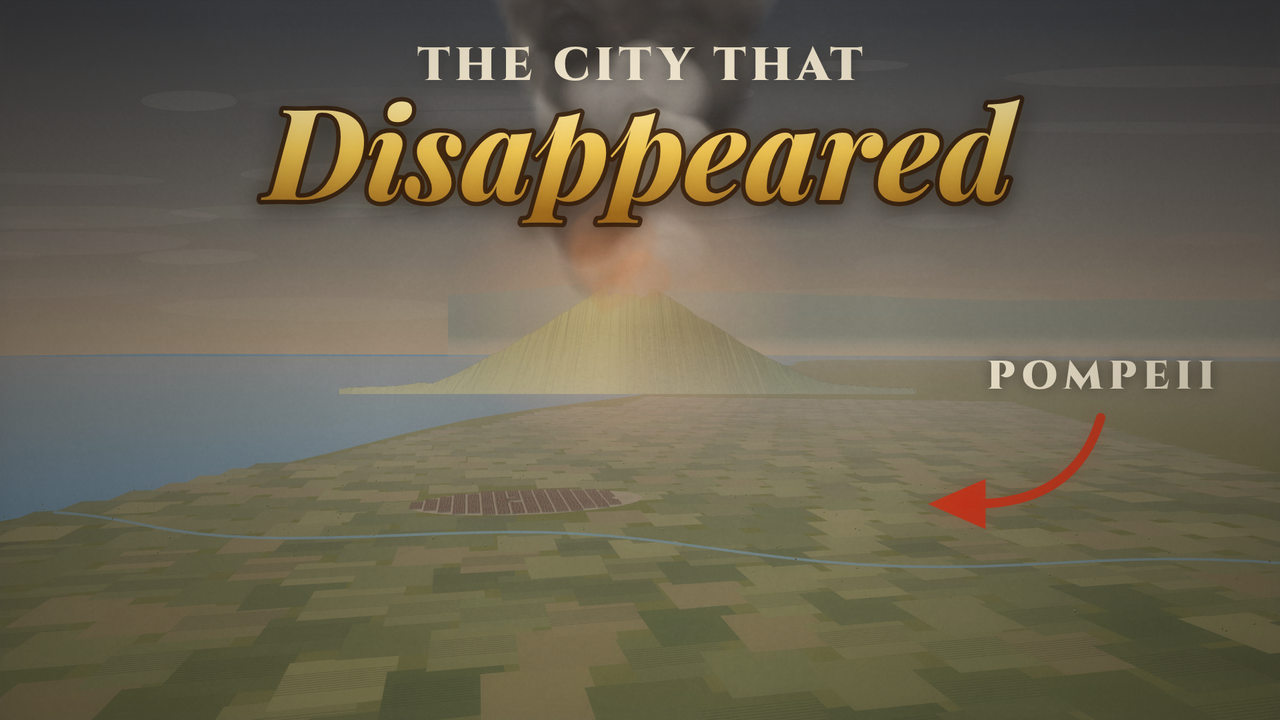
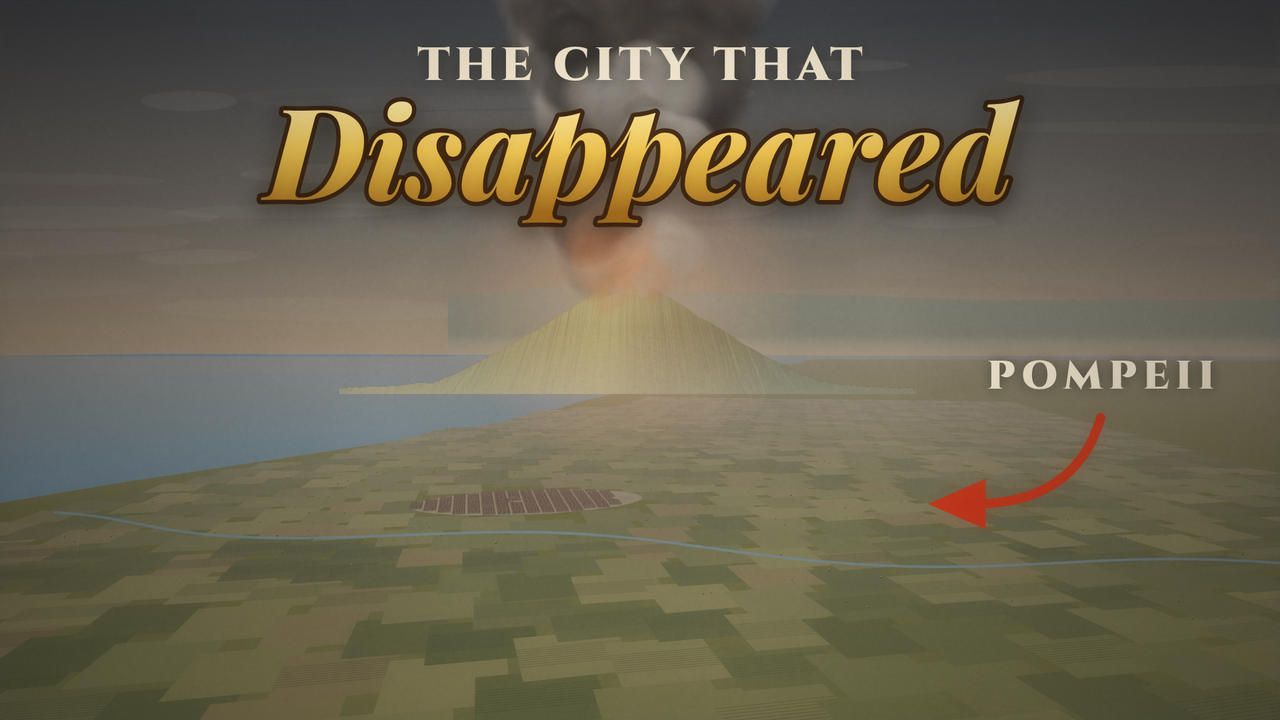
Fix aerial ground plane clipping in far shots; refresh thumbnails
The land and sea planes ended 3 km south of the town, leaving a black band at
the bottom of high, distant aerial shots (eruption, night and aftermath views).
They now extend 30 km; the ridge band also fades out instead of ending in a box.

Claude-Session: https://claude.ai/code/session_01KoUcWcj69kNmCuHbXMcbsW

diff --git a/pompeii/sets/aerial.js b/pompeii/sets/aerial.js
@@ -37,7 +37,7 @@ function build() {
   B.push({ x0: -104, x1: -76, z0: 46, z1: 78, h: 17, temple: true, k: 0.5 });
   B.push({ x0: -160, x1: -112, z0: -10, z1: 50, h: 12, k: 0.3 });
   FIELDS = []; const q = rng(23);
-  for (let gx = -16; gx <= 16; gx++) for (let gz = -9; gz <= 30; gz++) {
+  for (let gx = -16; gx <= 16; gx++) for (let gz = -40; gz <= 30; gz++) {
     const x = gx * 290 + (q() - 0.5) * 60, z = gz * 290 + (q() - 0.5) * 60;
     if ((x / 700) ** 2 + (z / 380) ** 2 < 1.05) continue;
     if (x < -2600 + z * 0.12 + 150) continue; // sea
@@ -60,7 +60,7 @@ export function drawAerial(ctx, W, H, t, st) {
   // sea (west/left) and land
   const fogD = 9000;
   const P = (pts, col, a = 1) => poly(ctx, cam, pts, col, lk, a, fogD);
-  poly(ctx, cam, [[-60000, 0, -3000], [60000, 0, -3000], [60000, 0, 60000], [-60000, 0, 60000]], mixc(hex('#5f86a0'), lk.sky[1], 0.35), lk, 1, 1e9);
+  poly(ctx, cam, [[-60000, 0, -30000], [60000, 0, -30000], [60000, 0, 60000], [-60000, 0, 60000]], mixc(hex('#5f86a0'), lk.sky[1], 0.35), lk, 1, 1e9);
   // distant Apennine hills (right) + Lattari (left far)
   const far = cam.proj([0, 0, 40000]);
   if (far) {
@@ -69,8 +69,8 @@ export function drawAerial(ctx, W, H, t, st) {
   }
   // land mass: coast running roughly N-S to the west of the town
   const land = mulc(mixc(hex(st.bury > 0.6 && st.green < 0.5 ? '#9b948a' : '#7d8051'), hex('#b8a77c'), 0.25), lk.light);
-  const coast = []; for (let i = 0; i <= 30; i++) { const z = -3000 + i * 1500; coast.push([-2600 + z * 0.12 + 300 * Math.sin(i * 0.9), 0, z]); }
-  poly(ctx, cam, [...coast, [40000, 0, 45000 - 3000 + 1500], [40000, 0, -3000]], mixc(mixc(land, hex('#8f8a7a'), st.bury || 0), hex('#6f7a43'), st.green ?? 0), lk, 1, 1e9);
+  const coast = []; for (let i = 0; i <= 50; i++) { const z = -30000 + i * 1500; coast.push([-2600 + z * 0.12 + 300 * Math.sin(i * 0.9), 0, z]); }
+  poly(ctx, cam, [...coast, [40000, 0, 45000], [40000, 0, -30000]], mixc(mixc(land, hex('#8f8a7a'), st.bury || 0), hex('#6f7a43'), st.green ?? 0), lk, 1, 1e9);
   veil(ctx, W, H, lk.fog, 0.7, 0.0, horizon, horizon + H * 0.22);
   // fields + vineyards
   for (const f of FIELDS) {
